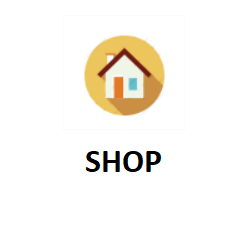
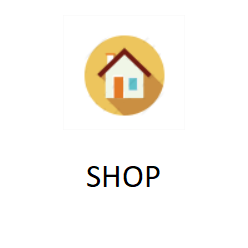
a

Changed region(s): [[0.3387, 0.5927, 0.6492, 0.7621]]

diff --git a/Flower Management System/Flower Shop/Add Flower Shop Form.Designer.cs b/Flower Management System/Flower Shop/Add Flower Shop Form.Designer.cs
@@ -79,7 +79,7 @@
             // 
             this.BT_Save.BackColor = System.Drawing.Color.White;
             this.BT_Save.BackgroundImage = ((System.Drawing.Image)(resources.GetObject("BT_Save.BackgroundImage")));
-            this.BT_Save.Location = new System.Drawing.Point(710, 281);
+            this.BT_Save.Location = new System.Drawing.Point(860, 563);
             this.BT_Save.Margin = new System.Windows.Forms.Padding(4);
             this.BT_Save.Name = "BT_Save";
             this.BT_Save.Size = new System.Drawing.Size(85, 79);
@@ -214,12 +214,12 @@
             this.LB_Quantity.AutoSize = true;
             this.LB_Quantity.BackColor = System.Drawing.Color.White;
             this.LB_Quantity.Font = new System.Drawing.Font("Segoe UI Semibold", 14.25F, System.Drawing.FontStyle.Bold, System.Drawing.GraphicsUnit.Point, ((byte)(0)));
-            this.LB_Quantity.Location = new System.Drawing.Point(27, 673);
+            this.LB_Quantity.Location = new System.Drawing.Point(7, 671);
             this.LB_Quantity.Margin = new System.Windows.Forms.Padding(4, 0, 4, 0);
             this.LB_Quantity.Name = "LB_Quantity";
-            this.LB_Quantity.Size = new System.Drawing.Size(123, 32);
+            this.LB_Quantity.Size = new System.Drawing.Size(117, 32);
             this.LB_Quantity.TabIndex = 107;
-            this.LB_Quantity.Text = "Quantity :";
+            this.LB_Quantity.Text = "Quantity ";
             // 
             // TB_Quantity
             // 

diff --git a/Flower Management System/Main Form.Designer.cs b/Flower Management System/Main Form.Designer.cs
@@ -119,7 +119,7 @@
             // 
             // BT_FlowerShop
             // 
-            this.BT_FlowerShop.BackgroundImage = ((System.Drawing.Image)(resources.GetObject("BT_FlowerShop.BackgroundImage")));
+            this.BT_FlowerShop.BackgroundImage = ((System.Drawing.Image)(resources.GetObject("BT_Shop.BackgroundImage")));
             this.BT_FlowerShop.BackgroundImageLayout = System.Windows.Forms.ImageLayout.Center;
             this.BT_FlowerShop.FlatStyle = System.Windows.Forms.FlatStyle.Flat;
             this.BT_FlowerShop.ForeColor = System.Drawing.Color.Black;
